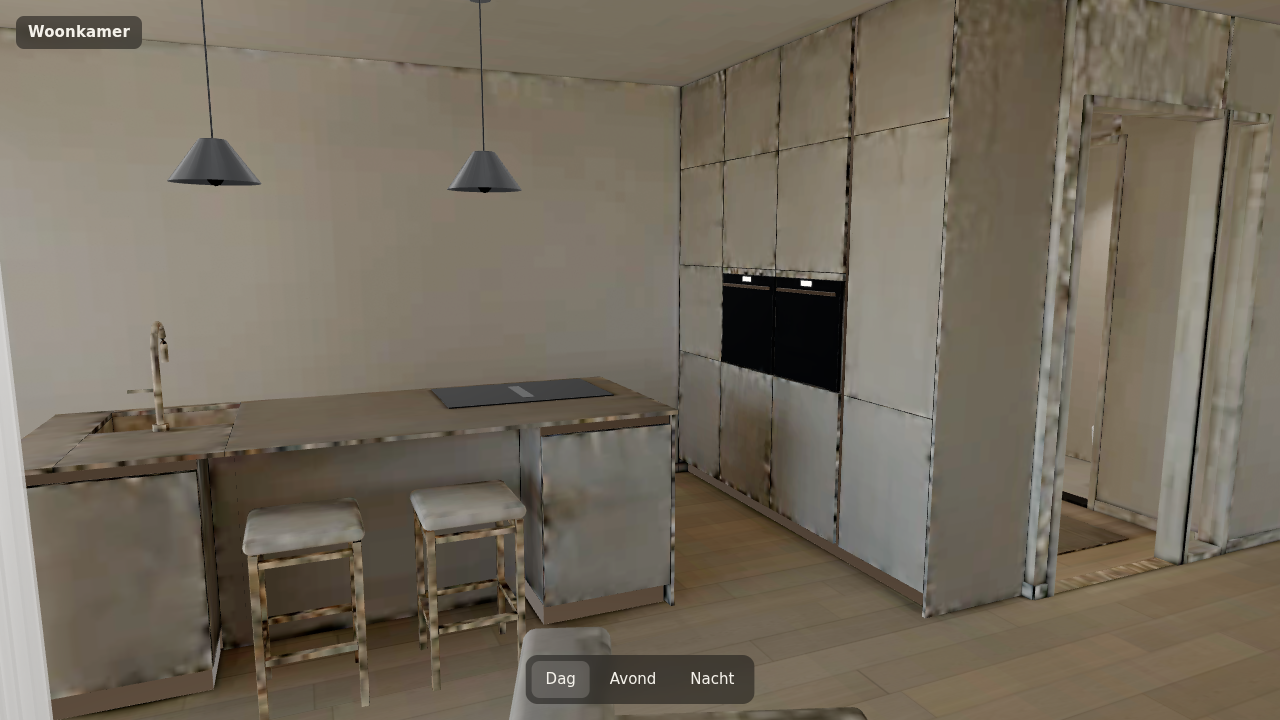
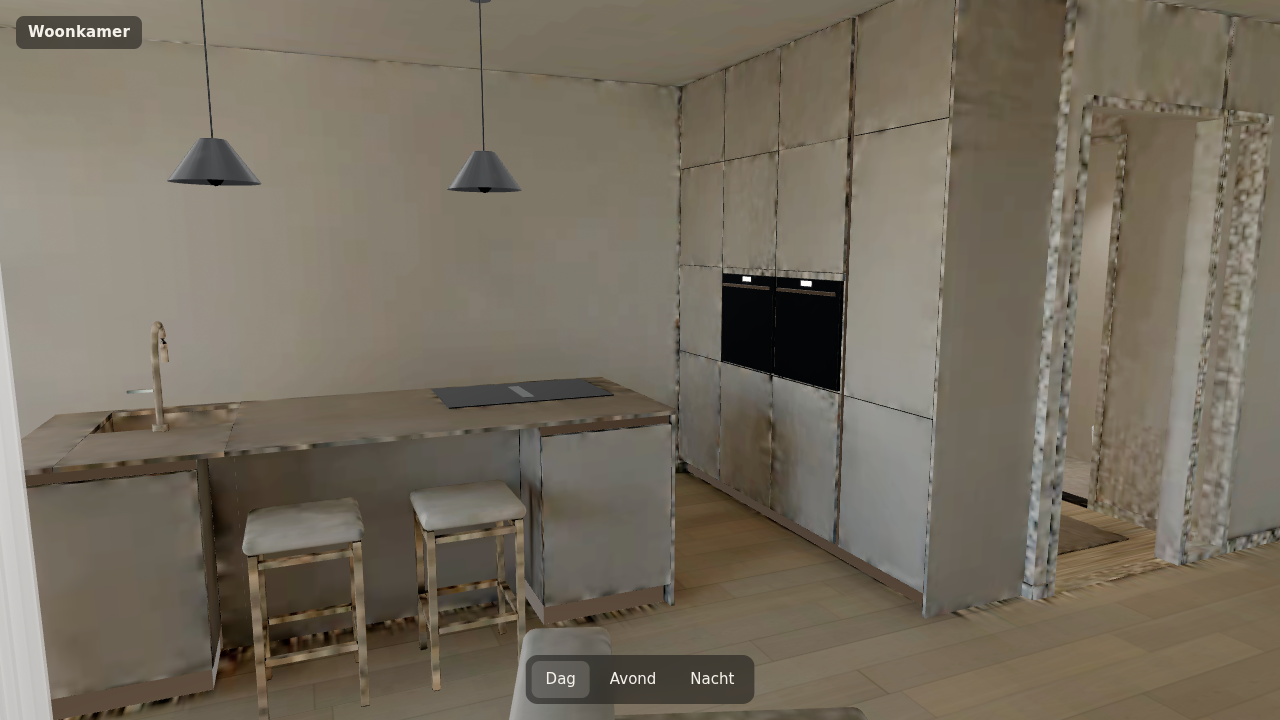
v2: bloom + MSAA on desktop, in-island lightmap smoothing, iPad smoke test fixes
- viewer: full tier renders HDR with 4x MSAA, a light bloom and AgX in an
  OutputPass; lite tier stays a plain render at pixel ratio <= 1.5
- bake.py: bake without margin, blur each island within its own texels
  (draft 1.2 px, final 0.6 px) before filling and denoising: OIDN keeps the
  per-texel noise of thin islands such as door reveals; --out for test bakes
- smoke test: close the desktop page before the emulated iPad, pixel ratio 1
- README / plan: Phase 3 status and the choices behind it (WebGL2, 2D
  collision, WebP instead of KTX2)

Claude-Session: https://claude.ai/code/session_01QLPyfuVKPNCu3YmoeM9J8r

diff --git a/v2/web/src/main.ts b/v2/web/src/main.ts
@@ -4,6 +4,10 @@ import * as THREE from "three";
 import { GLTFLoader } from "three/addons/loaders/GLTFLoader.js";
 import { MeshoptDecoder } from "three/addons/libs/meshopt_decoder.module.js";
 import { RoomEnvironment } from "three/addons/environments/RoomEnvironment.js";
+import { EffectComposer } from "three/addons/postprocessing/EffectComposer.js";
+import { RenderPass } from "three/addons/postprocessing/RenderPass.js";
+import { UnrealBloomPass } from "three/addons/postprocessing/UnrealBloomPass.js";
+import { OutputPass } from "three/addons/postprocessing/OutputPass.js";
 import { resolve, roomAt, type CollisionData } from "./collision";
 import { Lightmaps, MOOD_LOOK, type Manifest, type Mood } from "./lightmaps";
 import { Walker } from "./controls";
@@ -11,9 +15,16 @@ import { Walker } from "./controls";
 const ASSETS = `${import.meta.env.BASE_URL}assets`;
 const EYE = 1.70, RADIUS = 0.25, SPEED = 1.4, HFOV = 78;
 
+// quality tier: full on desktops (2K textures, full lightmaps, bloom),
+// lite on touch devices (1K textures, half-size lightmaps, no post-processing);
+// ?quality=full|lite overrides
+const query = new URLSearchParams(location.search);
+const tier = query.get("quality") ?? (matchMedia("(pointer: coarse)").matches ? "lite" : "full");
+const lite = tier === "lite";
+
 const canvas = document.getElementById("view") as HTMLCanvasElement;
 const renderer = new THREE.WebGLRenderer({ canvas, antialias: true, powerPreference: "high-performance" });
-renderer.setPixelRatio(Math.min(devicePixelRatio, 2));
+renderer.setPixelRatio(Math.min(devicePixelRatio, lite ? 1.5 : 2));
 renderer.outputColorSpace = THREE.SRGBColorSpace;
 renderer.toneMapping = THREE.AgXToneMapping;
 
@@ -23,9 +34,24 @@ camera.rotation.order = "YXZ";
 const pmrem = new THREE.PMREMGenerator(renderer);
 const envMap = pmrem.fromScene(new RoomEnvironment(), 0.04).texture;   // reflections only (see Lightmaps)
 
+// full tier: HDR render (4x MSAA) -> bloom on what is brighter than white
+// (lamp bulbs, sun patches) -> AgX tone mapping in the OutputPass
+let composer: EffectComposer | null = null;
+let bloom: UnrealBloomPass | null = null;
+if (!lite) {
+  const target = new THREE.WebGLRenderTarget(1, 1, { type: THREE.HalfFloatType, samples: 4 });
+  composer = new EffectComposer(renderer, target);
+  composer.addPass(new RenderPass(scene, camera));
+  bloom = new UnrealBloomPass(new THREE.Vector2(1, 1), 0.2, 0.15, 2.5);
+  composer.addPass(bloom);
+  composer.addPass(new OutputPass());
+}
+
 function resize(): void {
   const w = innerWidth, h = innerHeight;
   renderer.setSize(w, h, false);
+  composer?.setPixelRatio(renderer.getPixelRatio());
+  composer?.setSize(w, h);
   camera.aspect = w / h;
   // hold ~78° horizontally like the Blender previews (and v1), clamp on portrait screens
   const v = 2 * Math.atan(Math.tan((HFOV * Math.PI) / 360) / camera.aspect) * (180 / Math.PI);
@@ -50,11 +76,6 @@ const [collision, manifest] = await Promise.all([
   json<CollisionData>(`${ASSETS}/collision.json`),
   json<Manifest>(`${ASSETS}/lightmaps/manifest.json`),
 ]);
-// quality tier: full on desktops, lite (1K textures, half-size lightmaps)
-// on touch devices; ?quality=full|lite overrides
-const query = new URLSearchParams(location.search);
-const tier = query.get("quality") ?? (matchMedia("(pointer: coarse)").matches ? "lite" : "full");
-const lite = tier === "lite";
 const lightmaps = new Lightmaps(manifest, `${ASSETS}/lightmaps`, envMap, lite);
 // one manager for the model, its textures and the lightmaps: the bar counts files
 const manager = new THREE.LoadingManager();
@@ -127,7 +148,7 @@ function frame(now: number): void {
   camera.rotation.set(walker.pitch, walker.yaw, 0);
   const room = roomAt(collision.rooms, pos.x, pos.z)?.name ?? "";
   if (room !== lastRoom) { roomEl.textContent = room || "—"; lastRoom = room; }
-  renderer.render(scene, camera);
+  if (composer) composer.render(); else renderer.render(scene, camera);
   requestAnimationFrame(frame);
 }
 requestAnimationFrame(frame);

diff --git a/v2/blender/bake.py b/v2/blender/bake.py
@@ -3,6 +3,7 @@
     python v2/blender/bake.py                      # draft: 2K, CPU (cloud)
     blender -b -P v2/blender/bake.py -- --quality final   # 4K, GPU (laptop)
     ... [--moods day,evening,night] [--groups shell,furniture] [--size 1024] [--samples 32]
+    ... [--smooth 1.2] [--out some/dir]   (test bake: only lightmaps, nothing else written)
 
 Reads v2/build/scene.blend and writes, to v2/build/:
 - lightmaps/<mood>_<group>.png  — irradiance (light only, no surface colour),
@@ -25,6 +26,7 @@ import math
 import os
 import sys
 import time
+from pathlib import Path
 
 sys.path.insert(0, os.path.dirname(os.path.abspath(__file__)))
 
@@ -37,8 +39,9 @@ from lighting import MOODS, set_mood, setup_world  # noqa: E402
 
 OUT = BUILD_DIR / "lightmaps"
 QUALITY = {
-    "draft": dict(size=2048, samples=64, device="CPU", margin=16),
-    "final": dict(size=4096, samples=1024, device="GPU", margin=16),
+    # margin: gap between UV islands (px); smooth: in-island blur (px) before denoising
+    "draft": dict(size=2048, samples=64, device="CPU", margin=16, smooth=1.2),
+    "final": dict(size=4096, samples=1024, device="GPU", margin=16, smooth=0.6),
 }
 LM = "Lightmap"
 SHELL_COLLECTIONS = ("walls", "floors", "ceilings", "frames", "railings")
@@ -47,13 +50,17 @@ SKIP_MATERIALS = {"M_glass", "M_frosted", "M_sheer", "M_bulb"}
 
 def parse():
     a = script_args()
-    opts = {"quality": "draft", "moods": ",".join(MOODS), "groups": "shell,furniture,exterior"}
+    opts = {"quality": "draft", "moods": ",".join(MOODS), "groups": "shell,furniture,exterior", "out": ""}
     for i in range(0, len(a) - 1, 2):
         opts[a[i].lstrip("-")] = a[i + 1]
     q = dict(QUALITY[opts["quality"]])
-    for k in ("size", "samples", "margin"):
+    for k in ("size", "samples", "margin", "smooth"):
         if k in opts:
-            q[k] = int(opts[k])
+            q[k] = type(q[k])(opts[k])
+    if opts["out"]:                       # test bake: lightmaps elsewhere, no scene export
+        global OUT
+        OUT = Path(opts["out"]).resolve()
+        q["test"] = True
     return opts["quality"], q, opts["moods"].split(","), opts["groups"].split(",")
 
 
@@ -242,8 +249,10 @@ def bake_group(objs, img, q):
         nt.nodes.active = node
     bpy.ops.object.select_all(action="DESELECT")
     stand_in.select_set(True)
+    # no bake margin: texels left empty mark the islands' outline for
+    # smooth_islands(); fill_empty() grows the islands afterwards
     bpy.ops.object.bake(type="DIFFUSE", pass_filter={"DIRECT", "INDIRECT"}, use_clear=True,
-                        margin=q["margin"], target="IMAGE_TEXTURES")
+                        margin=0, target="IMAGE_TEXTURES")
     for m in mats:
         m.node_tree.nodes.remove(m.node_tree.nodes["LM_bake"])
     me = stand_in.data
@@ -257,6 +266,36 @@ def pixels(img):
     a = np.empty(img.size[0] * img.size[1] * 4, np.float32)
     img.pixels.foreach_get(a)
     return a.reshape(img.size[1], img.size[0], 4)
+
+
+def smooth_islands(img, sigma):
+    """Gaussian blur that stays inside the baked texels (normalised
+    convolution with the coverage mask). OIDN keeps thin islands (reveals,
+    frames, chair legs: a few texels wide) as they are, texel noise
+    included; a 1-2 px blur takes that out without crossing the empty gap
+    between islands."""
+    if sigma <= 0:
+        return
+    a = pixels(img)
+    rgb = a[..., :3]
+    mask = (rgb.max(axis=-1) > 0).astype(np.float32)
+    r = max(1, int(math.ceil(2.5 * sigma)))
+    k = np.exp(-0.5 * (np.arange(-r, r + 1) / sigma) ** 2).astype(np.float32)
+    k /= k.sum()
+
+    def blur(x):
+        for axis in (0, 1):
+            acc = np.zeros_like(x)
+            for i, w in enumerate(k):
+                acc += w * np.roll(x, i - r, axis)
+            x = acc
+        return x
+
+    num = blur(rgb * mask[..., None])
+    den = blur(mask)
+    out = np.where(mask[..., None] > 0, num / np.maximum(den, 1e-6)[..., None], 0)
+    a[..., :3] = out
+    img.pixels.foreach_set(a.ravel())
 
 
 def fill_empty(img, steps=48):
@@ -381,6 +420,7 @@ def main():
             img = bpy.data.images.new(f"LM_{mood}_{g}", size, size, float_buffer=True)
             t = time.time()
             bake_group(objs, img, q)
+            smooth_islands(img, q["smooth"])
             fill_empty(img)
             clean = denoise(img, size)
             name = f"{mood}_{g}.png"
@@ -391,6 +431,9 @@ def main():
                   f"scale {scale:.3f}", flush=True)
 
     (OUT / "manifest.json").write_text(json.dumps(manifest, indent=1))
+    if q.get("test"):
+        print(f"test bake: {OUT}")
+        return
     # restore surface UVs as active, keep the scene light-free of the bake setup
     for o in scene.objects:
         if o.type == "MESH" and o.data.uv_layers.get("UVMap"):

diff --git a/v2/README.md b/v2/README.md
@@ -158,12 +158,19 @@ npm test         # headless smoke test + screenshots in v2/docs/renders/web_*.pn
   `check_furniture.py` verifies (`export_collision.py`); schuifpuien are open
   on their sliding half, as in v1.
 - **Moods:** Dag / Avond / Nacht buttons switch the lightmap set live.
+- **Renderer:** WebGL2 (`WebGLRenderer`). WebGPU brings nothing here yet —
+  everything is baked, so the GPU only draws ~370 textured batches — and
+  WebGL2 runs everywhere, including older iPads.
+- **Collision:** 2D (walls as capsules, furniture as boxes, from the same
+  data the checks use) instead of a navmesh: one floor level, no stairs, so
+  a navmesh adds a dependency without changing how walking feels.
 - **URL:** `?pos=x,z,yaw,pitch&mood=evening` (yaw/pitch in degrees; three.js
   rotation: yaw 0 looks north) — used by the smoke test. `&hud=0` hides the
   help panel.
-- **Quality tiers:** `full` on desktops (textures up to 2K, full lightmaps),
-  `lite` on touch devices such as the iPad (textures up to 1K, lightmaps at
-  half size, about a quarter of the GPU memory). `?quality=full|lite`
+- **Quality tiers:** `full` on desktops (textures up to 2K, full lightmaps,
+  4x MSAA + a light bloom on lamp bulbs and sun patches), `lite` on touch
+  devices such as the iPad (textures up to 1K, lightmaps at half size, about
+  a quarter of the GPU memory, no post-processing, pixel ratio <= 1.5). `?quality=full|lite`
   overrides the automatic choice; `npm run assets` writes both
   (`apartment/` / `apartment-lite/`, `*.webp` / `*-lite.webp`).
 - **Download size:** the model is a `.gltf` with one WebP file per texture

diff --git a/docs/modernization-plan.md b/docs/modernization-plan.md
@@ -190,6 +190,20 @@ cloud machine has 4 CPU cores and no GPU, so:
 - **Done when:** side-by-side screenshots from the same `?pos=` spots clearly beat v1.
 
 ### Phase 3 — Web viewer core (desktop first)
+- **Status (2026-10-04):** `v2/web/` — Vite + TypeScript + three.js r186. Done: baked model
+  with day / evening / night lightmaps, AgX, bloom + 4x MSAA on desktop, first-person
+  walking (mouse/keyboard and touch stick) with collision, quality tiers `full` / `lite`
+  (auto on touch devices), model as gltf with one WebP per texture (largest file < 3 MB;
+  ~25 MB desktop, ~8 MB iPad, plus ~5 MB lightmaps), headless smoke test including an
+  emulated iPad. Deliberate changes to the list below:
+  - WebGL2 only: with everything baked WebGPU gains nothing, WebGL2 runs on every iPad.
+  - 2D collision (capsules + boxes from the checked layout) instead of a navmesh: one
+    floor, no stairs.
+  - meshopt + WebP instead of KTX2: KTX2 saves GPU memory, but at good quality (UASTC) its
+    files are typically several times larger than WebP; revisit if the iPad runs out of memory.
+  - Not split per room yet: the whole flat is ~30 MB and loads at once; the 25 MB per
+    file limit is met.
+  - Still to check on a real iPad (Safari) and a normal laptop: frame rate.
 - Vite + TypeScript + current Three.js: WebGPU renderer with WebGL2 fallback, and
   glTF, KTX2 and meshopt loaders.
 - Colour pipeline for realism: AgX or Neutral tone mapping, bloom on the lamps, SMAA.
